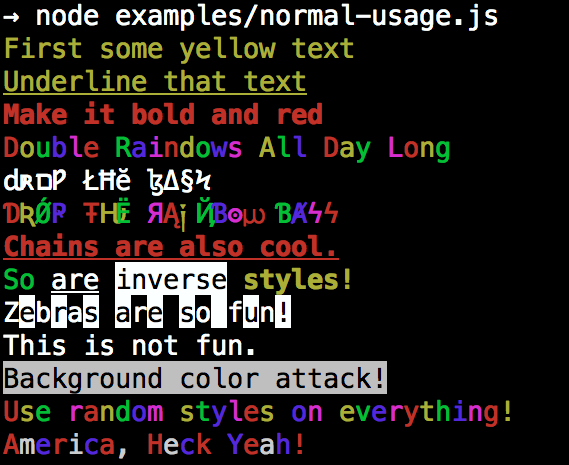
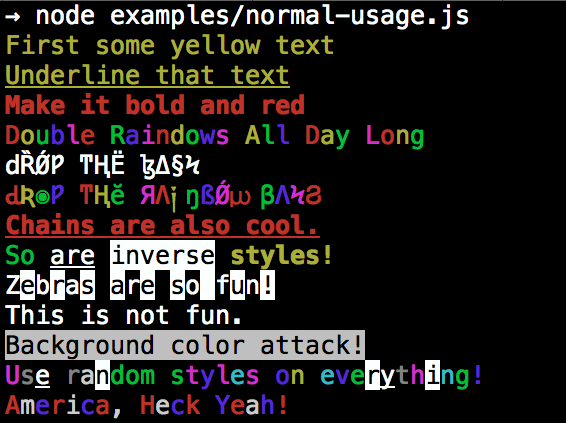
[minor] [fix] Add defaults for .trap and .zalgo. .random now using correct api. Update docs and screenshot.

Changed region(s): [[0.0, 0.0, 0.9011, 1.0]]

diff --git a/lib/maps/random.js b/lib/maps/random.js
@@ -3,6 +3,6 @@ var colors = require('../colors');
 module['exports'] = (function () {
   var available = ['underline', 'inverse', 'grey', 'yellow', 'red', 'green', 'blue', 'white', 'cyan', 'magenta'];
   return function(letter, i, exploded) {
-    return letter === " " ? letter : letter[available[Math.round(Math.random() * (available.length - 1))]];
+    return letter === " " ? letter : colors[available[Math.round(Math.random() * (available.length - 1))]](letter);
   };
 })();

diff --git a/lib/custom/trap.js b/lib/custom/trap.js
@@ -1,5 +1,6 @@
 module['exports'] = function runTheTrap (text, options) {
   var result = "";
+  text = text || "Run the trap, drop the bass";
   text = text.split('');
   var trap = {
     a: ["\u0040", "\u0104", "\u023a", "\u0245", "\u0394", "\u039b", "\u0414"],

diff --git a/lib/custom/zalgo.js b/lib/custom/zalgo.js
@@ -1,5 +1,6 @@
 // please no
-var zalgo = module['exports'] = function zalgo(text, options) {
+module['exports'] = function zalgo(text, options) {
+  text = text || "   he is here   ";
   var soul = {
     "up" : [
       '̍', '̎', '̄', '̅',

diff --git a/ReadMe.md b/ReadMe.md
@@ -4,10 +4,9 @@
 
 <img src="https://github.com/Marak/colors.js/raw/master/screenshots/colors.png"/>
 
-
 ## Installation
 
-    npm install colors -g
+    npm install colors
 
 ## colors and styles!
 
@@ -64,7 +63,7 @@ By popular demand, `colors` now ships with two types of usages!
 The super nifty way
 
 ```js
-require('colors');
+var colors = require('colors');
 
 console.log('hello'.green); // outputs green text
 console.log('i like cake and pies'.underline.red) // outputs red underlined text
